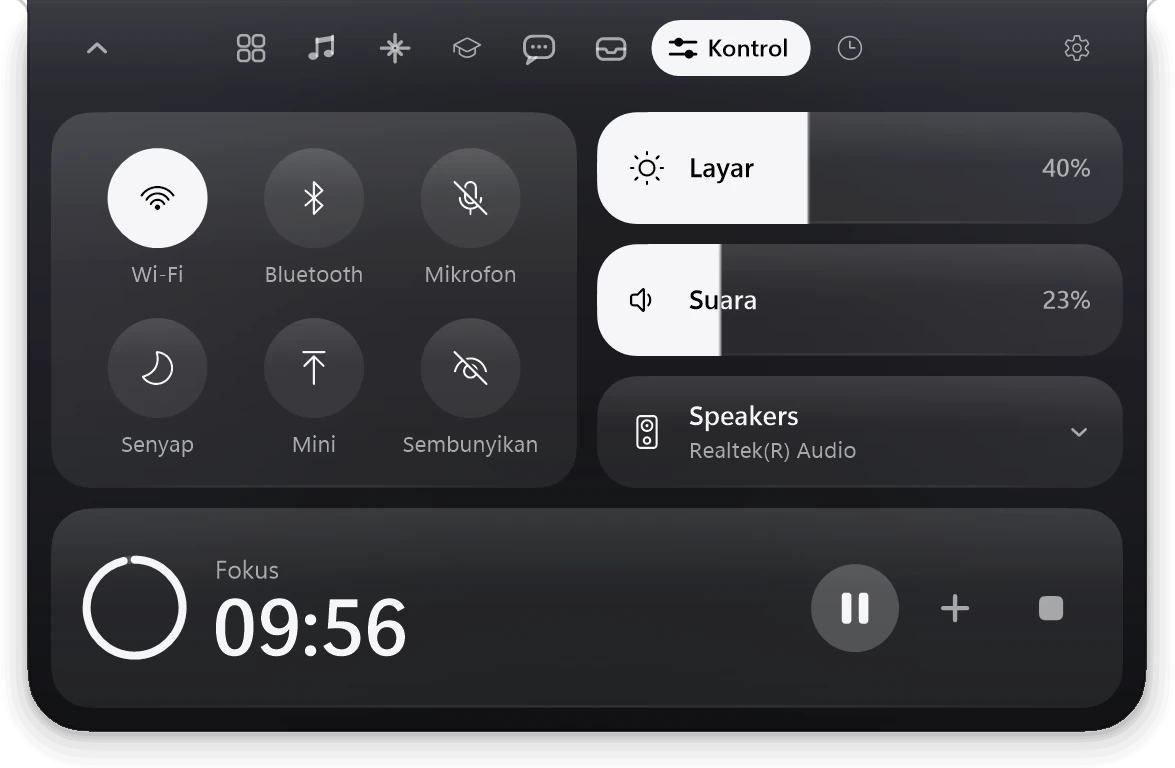
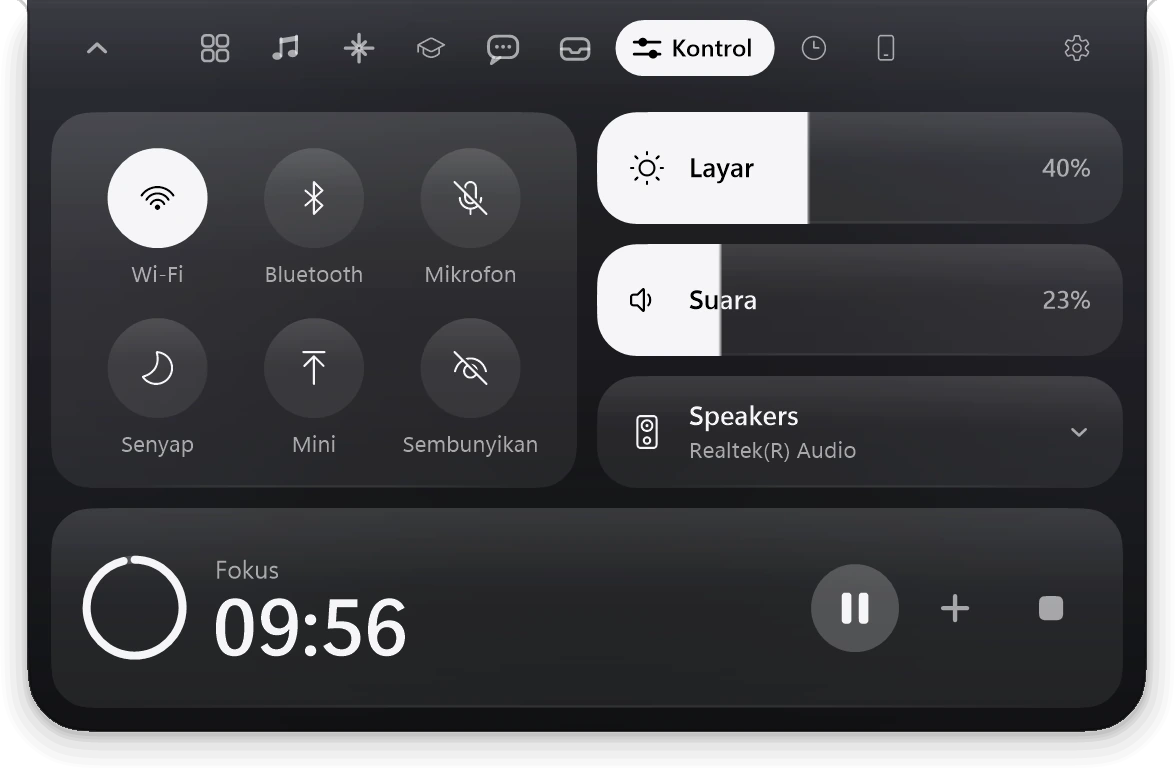
Situs 2.4: versi, SHA, pill kode OTP, tab HP di panel, adegan panel mengikuti jumlah tab, gambar OG

Changed region(s): [[0.1532, 0.0, 0.766, 0.125]]

diff --git a/index.html b/index.html
@@ -17,17 +17,17 @@
 <meta property="og:site_name" content="Tepi">
 <meta property="og:locale" content="id_ID">
 <meta property="og:locale:alternate" content="en_US">
-<meta property="og:title" content="Tepi 2.3: dynamic island untuk Windows">
-<meta property="og:description" content="Baru di 2.3: cuaca dan peringatan hujan, mode rapat, cermin kamera, dan baterai earbuds di island. Gratis, satu exe, kode terbuka.">
+<meta property="og:title" content="Tepi 2.4: dynamic island untuk Windows">
+<meta property="og:description" content="Baru di 2.4: sambungkan HP Android. Kode OTP, notifikasi, baterai, dan berkas pindah lewat Wi-Fi yang sama. Gratis, satu exe, kode terbuka.">
 <meta property="og:url" content="https://odlaver.github.io/tepi/">
-<meta property="og:image" content="https://odlaver.github.io/tepi/assets/img/og-23.jpg">
+<meta property="og:image" content="https://odlaver.github.io/tepi/assets/img/og-24.jpg">
 <meta property="og:image:width" content="1200">
 <meta property="og:image:height" content="630">
-<meta property="og:image:alt" content="Tepi 2.3, dynamic island di tepi atas layar Windows, menampilkan mode rapat Zoom">
+<meta property="og:image:alt" content="Tepi 2.4, dynamic island di tepi atas layar Windows, menampilkan kode OTP dari HP">
 <meta name="twitter:card" content="summary_large_image">
-<meta name="twitter:title" content="Tepi 2.3: dynamic island gratis untuk Windows 10 dan 11">
-<meta name="twitter:description" content="Baru di 2.3: cuaca dan peringatan hujan, mode rapat, cermin kamera, dan baterai earbuds di island. Gratis, satu exe, kode terbuka.">
-<meta name="twitter:image" content="https://odlaver.github.io/tepi/assets/img/og-23.jpg">
+<meta name="twitter:title" content="Tepi 2.4: dynamic island gratis untuk Windows 10 dan 11">
+<meta name="twitter:description" content="Baru di 2.4: sambungkan HP Android. Kode OTP, notifikasi, baterai, dan berkas pindah lewat Wi-Fi yang sama. Gratis, satu exe, kode terbuka.">
+<meta name="twitter:image" content="https://odlaver.github.io/tepi/assets/img/og-24.jpg">
 <script type="application/ld+json">
 {
   "@context": "https://schema.org",
@@ -37,15 +37,15 @@
   "description": "Dynamic island untuk Windows 10 dan 11: lagu dan lirik, agent coding, tugas, pesan, timer, dan teleprompter di tepi atas layar.",
   "url": "https://odlaver.github.io/tepi/",
   "downloadUrl": "https://github.com/odlaver/tepi/releases/latest/download/Tepi.exe",
-  "softwareVersion": "2.3.0",
-  "fileSize": "739 KB",
+  "softwareVersion": "2.4.0",
+  "fileSize": "771 KB",
   "operatingSystem": "Windows 10, Windows 11",
   "applicationCategory": "UtilitiesApplication",
   "inLanguage": ["id", "en"],
   "isAccessibleForFree": true,
   "license": "https://github.com/odlaver/tepi/blob/main/LICENSE",
   "codeRepository": "https://github.com/odlaver/tepi",
-  "image": "https://odlaver.github.io/tepi/assets/img/og-23.jpg",
+  "image": "https://odlaver.github.io/tepi/assets/img/og-24.jpg",
   "screenshot": "https://odlaver.github.io/tepi/assets/img/p-ringkasan.webp",
   "offers": { "@type": "Offer", "price": "0", "priceCurrency": "IDR" },
   "author": {
@@ -77,7 +77,7 @@
 <main id="top">
   <section class="hero" id="hero">
     <div class="wrap hero-copy">
-      <p class="kicker">Tepi 2.3</p>
+      <p class="kicker">Tepi 2.4</p>
       <h1 data-i18n="hero.title">Dynamic island untuk Windows.</h1>
       <p class="lead" data-i18n="hero.lead">Duduk tenang di tepi atas layar, lalu membesar saat ada yang terjadi: lagu, agent coding, tugas, pesan, timer.</p>
       <div class="cta">
@@ -85,7 +85,7 @@
           <svg class="ico" viewBox="0 0 20 20" aria-hidden="true"><path d="M10 3v9m0 0-3.5-3.5M10 12l3.5-3.5M4 15.5h12" fill="none" stroke="currentColor" stroke-width="1.8" stroke-linecap="round" stroke-linejoin="round"/></svg>
           <span data-i18n="cta.download">Unduh untuk Windows</span>
         </a>
-        <p class="meta"><span data-i18n="meta.free">Gratis</span> · v<span class="js-version"><span class="ver-main">2.3</span><span class="ver-tail">.0</span></span> · <span class="js-size">739 KB</span> · <span data-i18n="meta.os">Windows 10 dan 11</span></p>
+        <p class="meta"><span data-i18n="meta.free">Gratis</span> · v<span class="js-version"><span class="ver-main">2.4</span><span class="ver-tail">.0</span></span> · <span class="js-size">771 KB</span> · <span data-i18n="meta.os">Windows 10 dan 11</span></p>
         <p class="platform" hidden data-i18n="note.platform">Tepi khusus Windows 10 dan 11.</p>
         <a class="link" href="https://github.com/odlaver/tepi" data-i18n="hero.source">Kode sumber di GitHub</a>
       </div>
@@ -94,7 +94,7 @@
       <div class="stage-fit"><div class="stage stage-hero">
         <img src="assets/img/p-ringkasan.webp" width="588" height="370" decoding="async" fetchpriority="high" alt="Panel Ringkasan Tepi: lagu yang diputar, agen yang bekerja, kelas berikutnya, dan pesan" data-i18n-alt="alt.hero">
       </div></div>
-      <figcaption class="cap" data-i18n="hero.update">Baru di Tepi 2.3: cuaca dan peringatan hujan, mode rapat, cermin kamera, dan baterai earbuds di island.</figcaption>
+      <figcaption class="cap" data-i18n="hero.update">Baru di Tepi 2.4: sambungkan HP Android. Kode OTP, notifikasi, baterai, dan berkas pindah lewat Wi-Fi yang sama.</figcaption>
     </figure>
   </section>
 
@@ -102,7 +102,7 @@
     <div class="wrap head">
       <p class="eyebrow">Live activity</p>
       <h2 data-i18n="live.title">Hidup saat dibutuhkan.</h2>
-      <p class="body" data-i18n="live.body">Lagu dengan lirik yang menyapu kata demi kata, pesan masuk, agent yang selesai, waktu sholat, volume, daya baterai, Caps Lock, bahasa input, screenshot, mute mikrofon, flashdisk, perintah terminal, login Wi-Fi, dan sekarang mode rapat, baterai earbuds, serta peringatan hujan. Island membesar sebentar, lalu kembali tenang.</p>
+      <p class="body" data-i18n="live.body">Lagu dengan lirik yang menyapu kata demi kata, pesan masuk, agent yang selesai, waktu sholat, volume, daya baterai, Caps Lock, bahasa input, screenshot, mute mikrofon, flashdisk, perintah terminal, login Wi-Fi, mode rapat, baterai earbuds, peringatan hujan, dan sekarang kode OTP dari HP. Island membesar sebentar, lalu kembali tenang.</p>
     </div>
     <div class="wrap live">
       <div class="stage stage-live" id="stage-live"><div class="isle inline" id="isle-live" data-isle aria-hidden="true"></div></div>
@@ -125,6 +125,7 @@
           <li><button type="button" data-act="14" aria-pressed="false"><span data-i18n="pill.meet">Mode rapat</span><i></i></button></li>
           <li><button type="button" data-act="15" aria-pressed="false"><span data-i18n="pill.buds">Baterai earbuds</span><i></i></button></li>
           <li><button type="button" data-act="16" aria-pressed="false"><span data-i18n="pill.rain">Peringatan hujan</span><i></i></button></li>
+          <li><button type="button" data-act="17" aria-pressed="false"><span data-i18n="pill.otp">Kode OTP</span><i></i></button></li>
         </ol>
         <button type="button" class="pp" id="pp"><svg viewBox="0 0 12 12" aria-hidden="true"><path class="i-pause" d="M3.5 2.5v7M8.5 2.5v7"/><path class="i-play" d="M3.5 2.2v7.6L9.8 6z"/></svg><span id="pp-label" data-i18n="acts.pause">Jeda</span></button>
       </div>
@@ -135,7 +136,7 @@
     <div class="scene-pin">
       <div class="wrap scene-copy">
         <p class="eyebrow">Panel</p>
-        <h2 data-i18n="panels.title">Delapan halaman, satu gerakan.</h2>
+        <h2 data-i18n="panels.title">Sembilan halaman, satu gerakan.</h2>
         <p class="body" data-i18n="panels.body">Panel terbuka saat kursor berada di atas island. Scroll memindahkan halaman.</p>
         <p class="now" id="now" aria-live="polite"><b id="now-name">Ringkasan</b><span id="now-desc">Yang paling penting, di satu tempat</span></p>
         <div class="tabs" role="tablist" aria-label="Halaman panel" data-i18n-label="panels.label">
@@ -147,6 +148,7 @@
           <button type="button" role="tab" data-tab="5" aria-selected="false" tabindex="-1" data-i18n="pg.shelf">Rak</button>
           <button type="button" role="tab" data-tab="6" aria-selected="false" tabindex="-1" data-i18n="pg.ctl">Kontrol</button>
           <button type="button" role="tab" data-tab="7" aria-selected="false" tabindex="-1" data-i18n="pg.rem">Pengingat</button>
+          <button type="button" role="tab" data-tab="8" aria-selected="false" tabindex="-1" data-i18n="pg.phone">HP</button>
         </div>
       </div>
     </div>
@@ -260,7 +262,7 @@
         </li>
       </ul>
       <div class="perf-foot">
-        <p class="exe"><b class="js-size">739 KB</b> <span data-i18n="perf.exe">satu file exe, tanpa instalasi.</span></p>
+        <p class="exe"><b class="js-size">771 KB</b> <span data-i18n="perf.exe">satu file exe, tanpa instalasi.</span></p>
         <p class="note" data-i18n="perf.frame">Membuka dan menutup panel paling lama sekitar 10 ms per frame, di bawah 16,7 ms untuk 60 fps.</p>
         <p class="note" data-i18n="perf.note">Diukur di laptop Intel Core i3-1115G4, 60 detik per kondisi. Persen CPU dihitung terhadap satu core.</p>
       </div>
@@ -373,13 +375,13 @@
         <svg class="ico" viewBox="0 0 20 20" aria-hidden="true"><path d="M10 3v9m0 0-3.5-3.5M10 12l3.5-3.5M4 15.5h12" fill="none" stroke="currentColor" stroke-width="1.8" stroke-linecap="round" stroke-linejoin="round"/></svg>
         <span data-i18n="cta.download">Unduh untuk Windows</span>
       </a>
-      <p class="meta"><span data-i18n="meta.free">Gratis</span> · v<span class="js-version"><span class="ver-main">2.3</span><span class="ver-tail">.0</span></span> · <span class="js-size">739 KB</span></p>
-      <p class="again" data-i18n="dl.again">Sudah memasang Tepi? Klik kanan ikon Tepi, lalu Perbarui ke Tepi 2.3.0. Berikutnya cukup Pengaturan › Tentang › Cek pembaruan.</p>
+      <p class="meta"><span data-i18n="meta.free">Gratis</span> · v<span class="js-version"><span class="ver-main">2.4</span><span class="ver-tail">.0</span></span> · <span class="js-size">771 KB</span></p>
+      <p class="again" data-i18n="dl.again">Sudah memasang Tepi? Klik kanan ikon Tepi, lalu Perbarui ke Tepi 2.4.0. Berikutnya cukup Pengaturan › Tentang › Cek pembaruan.</p>
       <p class="platform" hidden data-i18n="note.platform">Tepi khusus Windows 10 dan 11.</p>
       <dl class="facts">
         <div><dt data-i18n="dl.req">Syarat</dt><dd data-i18n="dl.req.d">Windows 10 versi 2004 atau lebih baru, atau Windows 11, 64-bit. .NET Framework 4.8 sudah bawaan Windows.</dd></div>
         <div><dt>SmartScreen</dt><dd data-i18n="dl.ss.d">Exe belum ditandatangani, jadi Windows SmartScreen bisa memunculkan peringatan. Pilih More info, lalu Run anyway.</dd></div>
-        <div><dt>SHA-256 Tepi.exe</dt><dd class="sha"><code class="js-sha">ED109E4BEAF6B1DC09A2C8CCCAE755134399C0015CF33F8C257C843A69801970</code><button type="button" class="btn-ghost" id="copy" data-i18n="dl.copy">Salin</button></dd></div>
+        <div><dt>SHA-256 Tepi.exe</dt><dd class="sha"><code class="js-sha">DB9E4C1EF00A097D71821C888688ADED1D87BC5D4B3C404A62A2CBFFB01F6A77</code><button type="button" class="btn-ghost" id="copy" data-i18n="dl.copy">Salin</button></dd></div>
       </dl>
       <a class="link" href="https://github.com/odlaver/tepi/releases" data-i18n="dl.releases">Semua rilis</a>
       <div class="coffee">

diff --git a/assets/js/main.js b/assets/js/main.js
@@ -17,10 +17,10 @@
     "meta.os": "Windows 10 and 11",
     "note.platform": "Tepi is for Windows 10 and 11.",
     "hero.source": "Source code on GitHub",
-    "hero.update": "New in Tepi 2.3: weather and rain alerts, meeting mode, a camera mirror, and earbuds battery on the island.",
+    "hero.update": "New in Tepi 2.4: connect your Android phone. OTP codes, notifications, battery, and files move over the same Wi-Fi.",
     "alt.hero": "Tepi Overview panel: the song playing, a working agent, the next class, and messages",
     "live.title": "Alive when it matters.",
-    "live.body": "Songs with lyrics that sweep word by word, incoming messages, finished agents, prayer times, volume, battery, Caps Lock, input language, screenshots, mic mute, USB drives, terminal commands, Wi-Fi sign-in, and now meeting mode, earbuds battery, and rain alerts. The island grows for a moment, then settles back.",
+    "live.body": "Songs with lyrics that sweep word by word, incoming messages, finished agents, prayer times, volume, battery, Caps Lock, input language, screenshots, mic mute, USB drives, terminal commands, Wi-Fi sign-in, meeting mode, earbuds battery, rain alerts, and now OTP codes from your phone. The island grows for a moment, then settles back.",
     "acts.label": "Island activities",
     "acts.pause": "Pause",
     "acts.play": "Play",
@@ -41,7 +41,9 @@
     "pill.meet": "Meeting mode",
     "pill.buds": "Earbuds battery",
     "pill.rain": "Rain alert",
-    "panels.title": "Eight pages, one gesture.",
+    "pill.otp": "OTP code",
+    "panels.title": "Nine pages, one gesture.",
+    "pg.phone": "Phone",
     "panels.body": "The panel opens when the cursor rests on the island. Scrolling switches pages.",
     "panels.label": "Panel pages",
     "pg.home": "Overview",
@@ -59,6 +61,7 @@
     "pg.ctl.d": "Sound, display, Wi-Fi, Bluetooth, timer",
     "pg.rem": "Reminders",
     "pg.rem.d": "Prayer, water, eye breaks",
+    "pg.phone.d": "OTP codes, notifications, battery, files",
     "mini.eyebrow": "Mini mode",
     "mini.title": "Out of the way while you focus.",
     "mini.body": "The island shrinks to a small click-through sliver, so the browser tabs underneath stay clickable. Auto mode shrinks it when a browser is maximized or after a minute of quiet. Important alerts still come through.",
@@ -178,7 +181,7 @@
     "dl.req": "Requirements",
     "dl.req.d": "Windows 10 version 2004 or later, or Windows 11, 64-bit. .NET Framework 4.8 ships with Windows.",
     "dl.ss.d": "The exe is not signed yet, so Windows SmartScreen may show a warning. Choose More info, then Run anyway.",
-    "dl.again": "Already have Tepi? Right-click the Tepi icon, then Update to Tepi 2.3.0. After that, Settings › About › Check for updates is enough.",
+    "dl.again": "Already have Tepi? Right-click the Tepi icon, then Update to Tepi 2.4.0. After that, Settings › About › Check for updates is enough.",
     "dl.copy": "Copy",
     "dl.copied": "Copied",
     "dl.releases": "All releases",
@@ -211,6 +214,7 @@
     "pg.shelf.d": "Seret berkas masuk, seret lagi keluar",
     "pg.ctl.d": "Suara, layar, Wi-Fi, Bluetooth, timer",
     "pg.rem.d": "Sholat, minum, istirahat mata",
+    "pg.phone.d": "Kode OTP, notifikasi, baterai, berkas",
     "style.liquid.d": "Kaca jernih yang menyesuaikan terang latar",
     "style.frost.d": "Kaca yang lebih berkabut dan lembut",
     "style.light.d": "Semua halaman ikut terang"
@@ -359,7 +363,9 @@
   // Panel scene: the page scroll switches tabs
   var sc = { el: $("#panel"), on: false, idx: -1, step: 0 };
   var tabs = $$(".tabs [role=tab]");
-  var DESC = ["pg.home.d", "pg.music.d", "", "pg.class.d", "pg.msg.d", "pg.shelf.d", "pg.ctl.d", "pg.rem.d"];
+  var DESC = ["pg.home.d", "pg.music.d", "", "pg.class.d", "pg.msg.d", "pg.shelf.d", "pg.ctl.d", "pg.rem.d", "pg.phone.d"];
+  var NP = PANEL_NAMES.length;
+  sc.el.style.setProperty("--n", NP);
   sc.el.classList.add("pinned");
   function sceneSize() {
     sc.step = Math.round(window.innerHeight * 0.42);
@@ -370,7 +376,7 @@
     top.root.style.setProperty("--fit", f.toFixed(3));
   }
   function nowText() {
-    var i = Math.max(0, Math.min(7, sc.idx));
+    var i = Math.max(0, Math.min(NP - 1, sc.idx));
     $("#now-name").textContent = tabs[i].textContent;
     $("#now-desc").textContent = DESC[i] ? t(DESC[i]) : "Claude Code, Codex, Gemini CLI, Antigravity";
   }
@@ -385,7 +391,7 @@
   function sceneGo(i) {
     var prev = sc.idx;
     sc.idx = i;
-    var inside = i >= 0 && i < 8;
+    var inside = i >= 0 && i < NP;
     if (inside) {
       if (!sc.on) {
         sc.on = true;
@@ -409,7 +415,7 @@
   }
   function sceneTick() {
     var r = sc.el.getBoundingClientRect();
-    var i = r.top > 0 ? -1 : Math.min(8, Math.floor(-r.top / sc.step));
+    var i = r.top > 0 ? -1 : Math.min(NP, Math.floor(-r.top / sc.step));
     if (i !== sc.idx) sceneGo(i);
   }
   function tabScroll(i) {
@@ -420,10 +426,10 @@
   on($(".tabs"), "keydown", function (e) {
     var i = tabs.indexOf(document.activeElement);
     if (i < 0) return;
-    var n = { ArrowRight: i + 1, ArrowLeft: i - 1, Home: 0, End: 7 }[e.key];
+    var n = { ArrowRight: i + 1, ArrowLeft: i - 1, Home: 0, End: NP - 1 }[e.key];
     if (n === undefined) return;
     e.preventDefault();
-    n = (n + 8) % 8;
+    n = (n + NP) % NP;
     tabs[n].focus();
     tabScroll(n);
   });
@@ -469,7 +475,7 @@
     var d = Math.abs(e.deltaX) > Math.abs(e.deltaY) ? e.deltaX : e.deltaY;
     var dir = d > 0 ? 1 : -1;
     var n = hov.tab + dir;
-    if (n < 0 || n > 7) return;
+    if (n < 0 || n > PANEL_NAMES.length - 1) return;
     e.preventDefault();
     hov.acc += d;
     if (Math.abs(hov.acc) < 60 || Date.now() < hov.lock) return;
@@ -482,7 +488,7 @@
   }, { passive: false });
 
   // Live stage: one island, seven activities
-  var ACTS = ["lyric", "media", "notif", "done", "pray", "volume", "power", "caps", "lang", "shot", "mic", "drive", "run", "wifi", "meet", "buds", "rain"];
+  var ACTS = ["lyric", "media", "notif", "done", "pray", "volume", "power", "caps", "lang", "shot", "mic", "drive", "run", "wifi", "meet", "buds", "rain", "otp"];
   var live = new TI.Island($("#isle-live"));
   var L = { i: -1, auto: false, vis: false, timer: 0, started: false };
   var actBtns = $$(".acts button");
@@ -752,7 +758,7 @@
   // Warm the island images when idle
   var idle = window.requestIdleCallback || function (fn) { return setTimeout(fn, 1200); };
   idle(function () {
-    ["notif", "lyric", "media", "done", "pray", "volume", "power", "caps", "lang", "shot", "mic", "drive", "run", "wifi", "meet", "buds", "rain", "approve"].concat(PANEL_NAMES).forEach(function (n, k) {
+    ["notif", "lyric", "media", "done", "pray", "volume", "power", "caps", "lang", "shot", "mic", "drive", "run", "wifi", "meet", "buds", "rain", "otp", "approve"].concat(PANEL_NAMES).forEach(function (n, k) {
       setTimeout(function () { TI.load(n); }, k * 120);
     });
   });

diff --git a/assets/js/island.js b/assets/js/island.js
@@ -32,9 +32,10 @@
     meet: { img: "meet", iw: 223, ox: 6.5, oy: 0, w: 210, h: 38, r: 18, s: 1, tone: "pill" },
     buds: { img: "buds", iw: 314, ox: 7, oy: 0, w: 300, h: 52, r: 26, s: 1, tone: "pill" },
     rain: { img: "rain", iw: 315, ox: 7, oy: 0, w: 301, h: 42, r: 20, s: 1, tone: "pill" },
+    otp: { img: "otp", iw: 343, ox: 13.5, oy: 0, w: 316, h: 64, r: 26.5, s: 1, tone: "pill" },
     approve: { img: "approve", iw: 547.5, ox: 13.5, oy: 0, w: 520, h: 237.5, r: 32, s: 0, tone: "light" }
   };
-  var PANELS = [["ringkasan", 352], ["musik", 340], ["agen", 254], ["kuliah", 266], ["pesan", 268], ["rak", 302], ["kontrol", 366], ["pengingat", 262]];
+  var PANELS = [["ringkasan", 352], ["musik", 340], ["agen", 254], ["kuliah", 266], ["pesan", 268], ["rak", 302], ["kontrol", 366], ["pengingat", 262], ["hp", 282]];
   PANELS.forEach(function (p) {
     STATES["p-" + p[0]] = { img: "p-" + p[0], iw: 587.5, ox: 13.5, oy: 0, w: 560, h: p[1], r: 32, s: 0, tone: "panel", split: true };
   });

diff --git a/pack/index.html b/pack/index.html
@@ -14,7 +14,7 @@
 <meta property="og:title" content="Paket tema Tepi">
 <meta property="og:description" content="Buat paket tema Tepi: warna, lambang, maskot, sapaan, dan suara dalam satu zip, langsung di browser.">
 <meta property="og:url" content="https://odlaver.github.io/tepi/pack/">
-<meta property="og:image" content="https://odlaver.github.io/tepi/assets/img/og-23.jpg">
+<meta property="og:image" content="https://odlaver.github.io/tepi/assets/img/og-24.jpg">
 <meta name="twitter:card" content="summary_large_image">
 <link rel="stylesheet" href="../assets/css/style.css">
 <link rel="stylesheet" href="../assets/css/pack.css">

diff --git a/assets/css/style.css b/assets/css/style.css
@@ -211,7 +211,7 @@ h3 { font-size: clamp(22px, 2.3vw, 27px); line-height: 1.15; letter-spacing: -0.
 
 /* Panel scene: scroll switches tabs */
 .scene { position: relative; margin-top: clamp(104px, 13vw, 168px); }
-.scene.pinned { height: calc(100svh + 8 * var(--step, 42svh)); }
+.scene.pinned { height: calc(100svh + var(--n, 8) * var(--step, 42svh)); }
 .scene-pin { position: relative; }
 .scene.pinned .scene-pin {
   position: sticky; top: 0; height: 100svh; display: flex; flex-direction: column; justify-content: flex-end;
